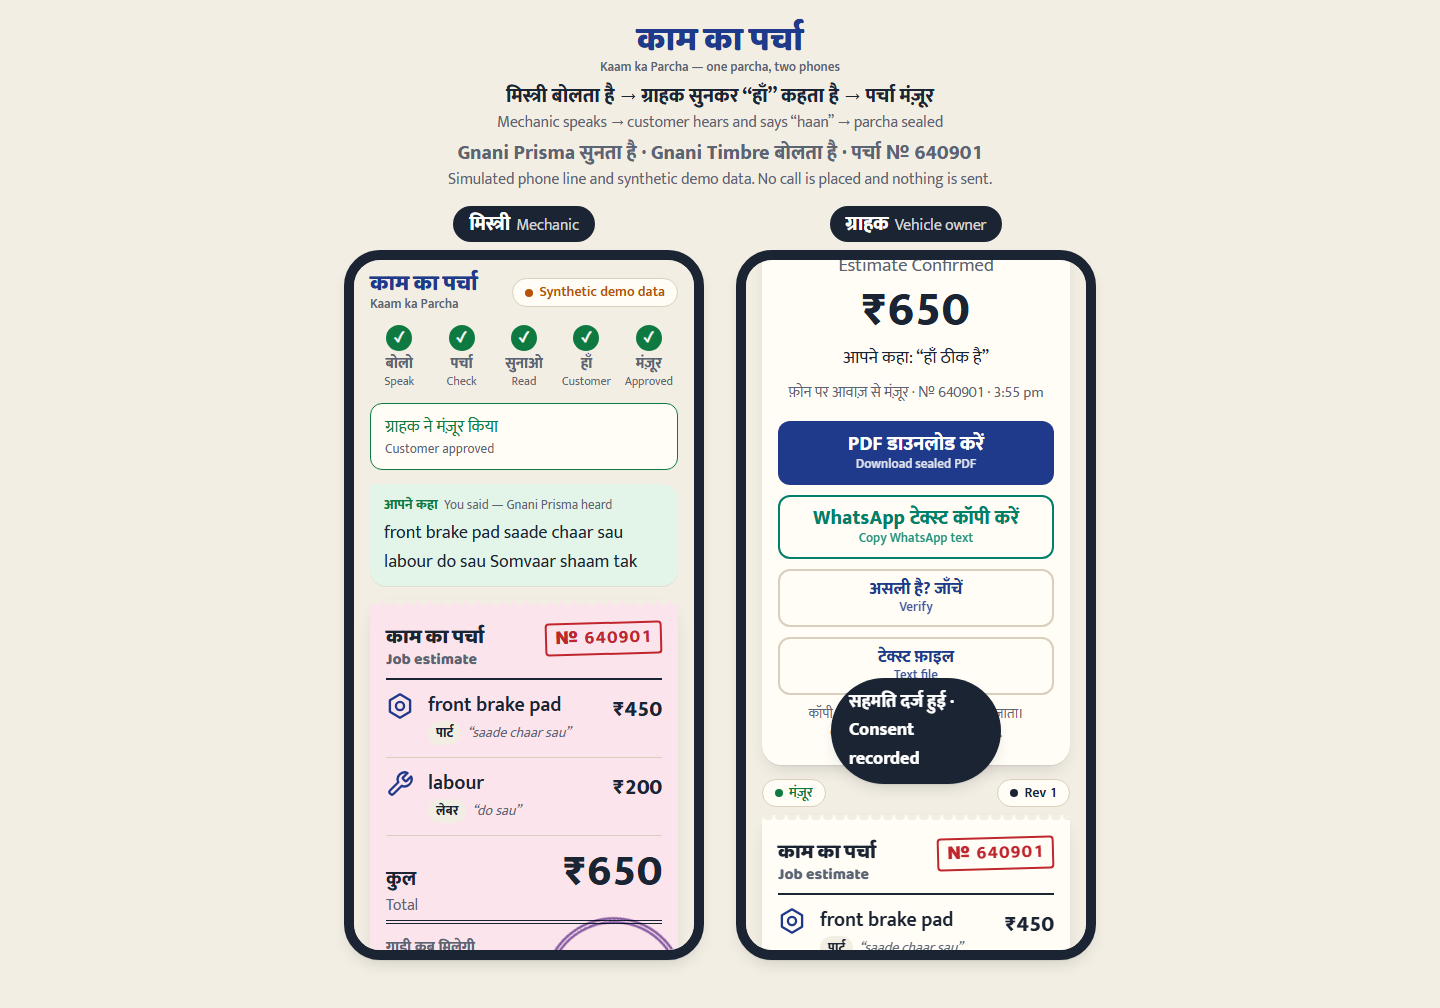
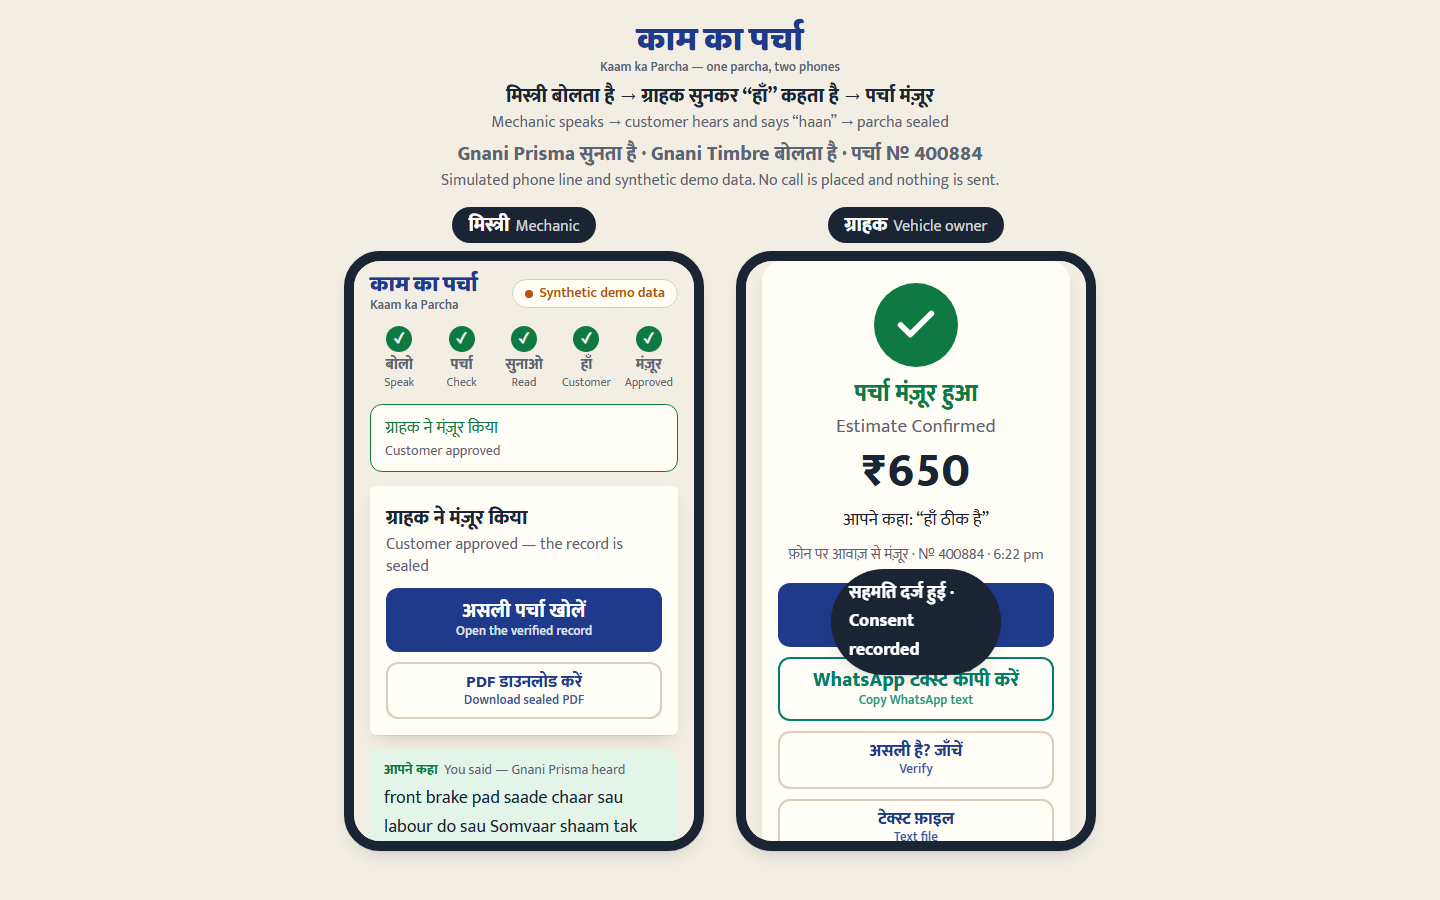
feat(ux): share panel first, sealed mechanic screen, consent guidance, stage fit, hover/haptics

Changed region(s): [[0.2188, 0.0, 0.7812, 0.9644]]

diff --git a/src/parcha/static/app.js b/src/parcha/static/app.js
@@ -30,6 +30,7 @@ async function recordOnce(startButton, stopButton, hooks = {}) {
   } catch (err) {
     throw new UI.MicError(err && err.name === "NotAllowedError" ? "blocked" : "unavailable");
   }
+  if (navigator.vibrate) navigator.vibrate(10);
   const mimeType = getSupportedMimeType();
   const recorder = new MediaRecorder(stream, mimeType ? { mimeType } : undefined);
   const chunks = [];
@@ -122,6 +123,14 @@ function renderSession(data) {
   $("customer-link").href = `/customer/${data.id}`;
   $("whatsapp-open").href = UI.whatsappHref(UI.shareMessage(data, customerUrl));
   $("copy-link").dataset.url = customerUrl;
+  const sealed = stage === "manzoor";
+  const title = sealed ? ["ग्राहक ने मंज़ूर किया", "Customer approved — the record is sealed"] : ["ग्राहक को भेजिए", "Send to the customer"];
+  $("share-title").replaceChildren(title[0], UI.el("span", { class: "en" }, title[1]));
+  ["copy-link", "whatsapp-open", "customer-link", "share-note"].forEach((id) => { $(id).hidden = sealed; });
+  $("sealed-links").hidden = !sealed;
+  $("sealed-verify").href = `/verify/${data.id}`;
+  $("sealed-pdf").href = `/sessions/${data.id}/pdf`;
+  if ((stage === "haan" || sealed) && previousStatus !== data.status) window.scrollTo({ top: 0, behavior: "smooth" });
   if (stage === "haan") startWaiting();
   if (stage === "manzoor" && previousStatus && previousStatus !== "confirmed") celebrate();
   if (previousStatus === "awaiting_reply" && data.status === "review") {
@@ -248,6 +257,14 @@ function enableRecordIfReady() {
   const button = $("customer-record");
   const consent = $("dpdp-consent-checkbox");
   if (!button) return;
+  const needConsent = Boolean(s && s.status === "awaiting_reply" && s.readback_revision != null && consent && !consent.checked);
+  const dock = $("dock");
+  dock.dataset.idleHi = needConsent ? "पहले सहमति दें" : "बोलकर जवाब दें";
+  dock.dataset.idleEn = needConsent ? "Tick the consent box first" : "Speak your answer";
+  if (dock.dataset.mic === "idle") {
+    dock.querySelector("[data-mic-title]").textContent = dock.dataset.idleHi;
+    dock.querySelector("[data-mic-sub]").textContent = dock.dataset.idleEn;
+  }
   button.disabled = !(s && s.status === "awaiting_reply" && s.readback_revision !== null && s.readback_revision !== undefined
     && consent && consent.checked && !isCustomerRecording);
 }
@@ -283,6 +300,8 @@ function wireCall() {
     call.dataset.call = "ended";
     UI.setCaption($("readback-caption"), caption(), 1);
     $("call-status").textContent = "अब नीचे माइक दबाकर जवाब दीजिए";
+    const consent = $("dpdp-consent-checkbox");
+    if (!consent.checked) $("dpdp-consent-box").scrollIntoView({ behavior: "smooth", block: "center" });
   });
   player.addEventListener("error", audioFailed);
   if (player.readyState >= 3) play.disabled = false;  // canplay may have fired before this listener existed

diff --git a/src/parcha/static/parcha.css b/src/parcha/static/parcha.css
@@ -22,7 +22,7 @@ h1, h2, p { margin: 0; }
 .page { min-height: 100dvh; padding-bottom: calc(var(--dock-h) + env(safe-area-inset-bottom)); }
 .page--verify, .page--stage { padding-bottom: 24px; }
 .sheet { max-width: 480px; margin: 0 auto; padding: 12px 16px 24px; display: grid; gap: 14px; }
-.en { display: block; font-size: max(13px, .78em); font-weight: 400; line-height: 1.35; color: var(--ink-muted); }
+.en { display: block; font-size: max(14px, .8em); font-weight: 400; line-height: 1.35; color: var(--ink-muted); }
 .btn .en, .mic .en, .call .en, .verdict .en { color: inherit; opacity: .85; }
 :focus-visible { outline: 3px solid var(--neela); outline-offset: 3px; }
 .topbar { max-width: 480px; margin: 0 auto; padding: 12px 16px 0; display: flex; align-items: center; justify-content: space-between; gap: 8px; }
@@ -184,7 +184,13 @@ h1, h2, p { margin: 0; }
 .phone figcaption { font-weight: 800; font-size: 20px; }
 .phone figcaption { padding: 2px 16px; border-radius: var(--r-pill); background: var(--ink); color: #fff; }
 .phone figcaption .en { display: inline; margin-left: 6px; color: inherit; opacity: .8; }
-.phone iframe { width: 360px; height: min(760px, calc(100dvh - 190px)); min-height: 560px; border: 10px solid var(--ink); border-radius: 36px; background: var(--counter); box-shadow: var(--shadow-paper); }
+.phone iframe { width: 360px; height: min(760px, calc(100dvh - 300px)); min-height: 560px; border: 10px solid var(--ink); border-radius: 36px; background: var(--counter); box-shadow: var(--shadow-paper); }
+#workshop[data-stage="haan"] #share, #workshop[data-stage="manzoor"] #share { order: -1; }
+#workshop[data-stage="haan"] #stepper, #workshop[data-stage="manzoor"] #stepper { order: -3; }
+#workshop[data-stage="haan"] #message, #workshop[data-stage="manzoor"] #message { order: -2; }
+button, a, summary, label { cursor: pointer; }
+:disabled { cursor: not-allowed; }
+@media (hover: hover) { .btn:hover:not(:disabled) { filter: brightness(1.08); } .reask:hover { background: #ffc61f; } .mic:hover:not(:disabled) { transform: scale(1.03); } }
 .card-head { display: flex; align-items: center; justify-content: space-between; gap: 8px; margin-bottom: 8px; }
 @media (min-width: 768px) { body { font-size: 19px; } }
 @media (prefers-reduced-motion: reduce) {

diff --git a/src/parcha/templates/workshop.html b/src/parcha/templates/workshop.html
@@ -28,11 +28,15 @@
     </div>
   </section>
   <section id="share" class="share" hidden>
-    <h2 class="share__title">ग्राहक को भेजिए<span class="en">Send to the customer</span></h2>
+    <h2 class="share__title" id="share-title">ग्राहक को भेजिए<span class="en">Send to the customer</span></h2>
     <button id="copy-link" class="btn btn--primary" type="button">लिंक कॉपी करें<span class="en">Copy link</span></button>
     <a id="whatsapp-open" class="btn btn--wa" href="#" target="_blank" rel="noopener">WhatsApp खोलें<span class="en">Open WhatsApp</span></a>
     <a id="customer-link" class="btn btn--ghost" href="#" target="_blank" rel="noopener" hidden>ग्राहक वाला पेज खोलें<span class="en">Open customer page</span></a>
-    <p class="fineprint">अपने आप कुछ नहीं भेजा जाता — भेजना आपके हाथ में है।<span class="en">Nothing is sent automatically.</span></p>
+    <div class="actions" id="sealed-links" hidden>
+      <a id="sealed-verify" class="btn btn--primary" href="#">असली पर्चा खोलें<span class="en">Open the verified record</span></a>
+      <a id="sealed-pdf" class="btn btn--ghost" href="#" download>PDF डाउनलोड करें<span class="en">Download sealed PDF</span></a>
+    </div>
+    <p class="fineprint" id="share-note">अपने आप कुछ नहीं भेजा जाता — भेजना आपके हाथ में है।<span class="en">Nothing is sent automatically.</span></p>
   </section>
 </main>
 <nav class="dock" id="dock" data-mic="idle" data-idle-hi="बोलिए" data-idle-en="Tap to speak" aria-label="माइक">

diff --git a/aidlc-docs/efforts/011-ui-digital-parcha-build/construction.md b/aidlc-docs/efforts/011-ui-digital-parcha-build/construction.md
@@ -24,3 +24,12 @@ Offline suite and `-m e2e` run in this worktree. `tests/test_early_gates.py` has
 - Call card is hidden once the parcha is sealed (it showed an audio error on a finished session).
 - Stamp easing changed from overshoot to ease-out; level meter animates transform instead of width.
 - Size budget raised from 60 KB to 64 KB (63.3 KB used). Still no framework or bundler.
+
+## UX walkthrough pass (ui-ux-pro-max + real-browser run)
+Walked the full mechanic-to-owner flow in Chromium with a fake mic (390x844, touch). Fixed:
+- Share panel is now first on the mechanic screen after "Read to customer" (it was below the fold) and the page scrolls to top.
+- Sealed mechanic screen offers the verified record and PDF instead of "Send to the customer".
+- Greyed reply mic on the owner page now says why ("पहले सहमति दें"); consent scrolls into view when the read-back ends.
+- Stage iframes sized so the mic dock fits at 1440x900; pointer cursor and hover states on desktop; 10 ms haptic on record start; sub-line floor 14px.
+- ui-ux-pro-max's generated design system (navy SaaS, Lexend) was not adopted; it does not fit the bill-book world. Its checklist (focus, reduced motion, tap targets, haptics) was applied.
+- Size: 64.6 KB of 64 KiB cap.
